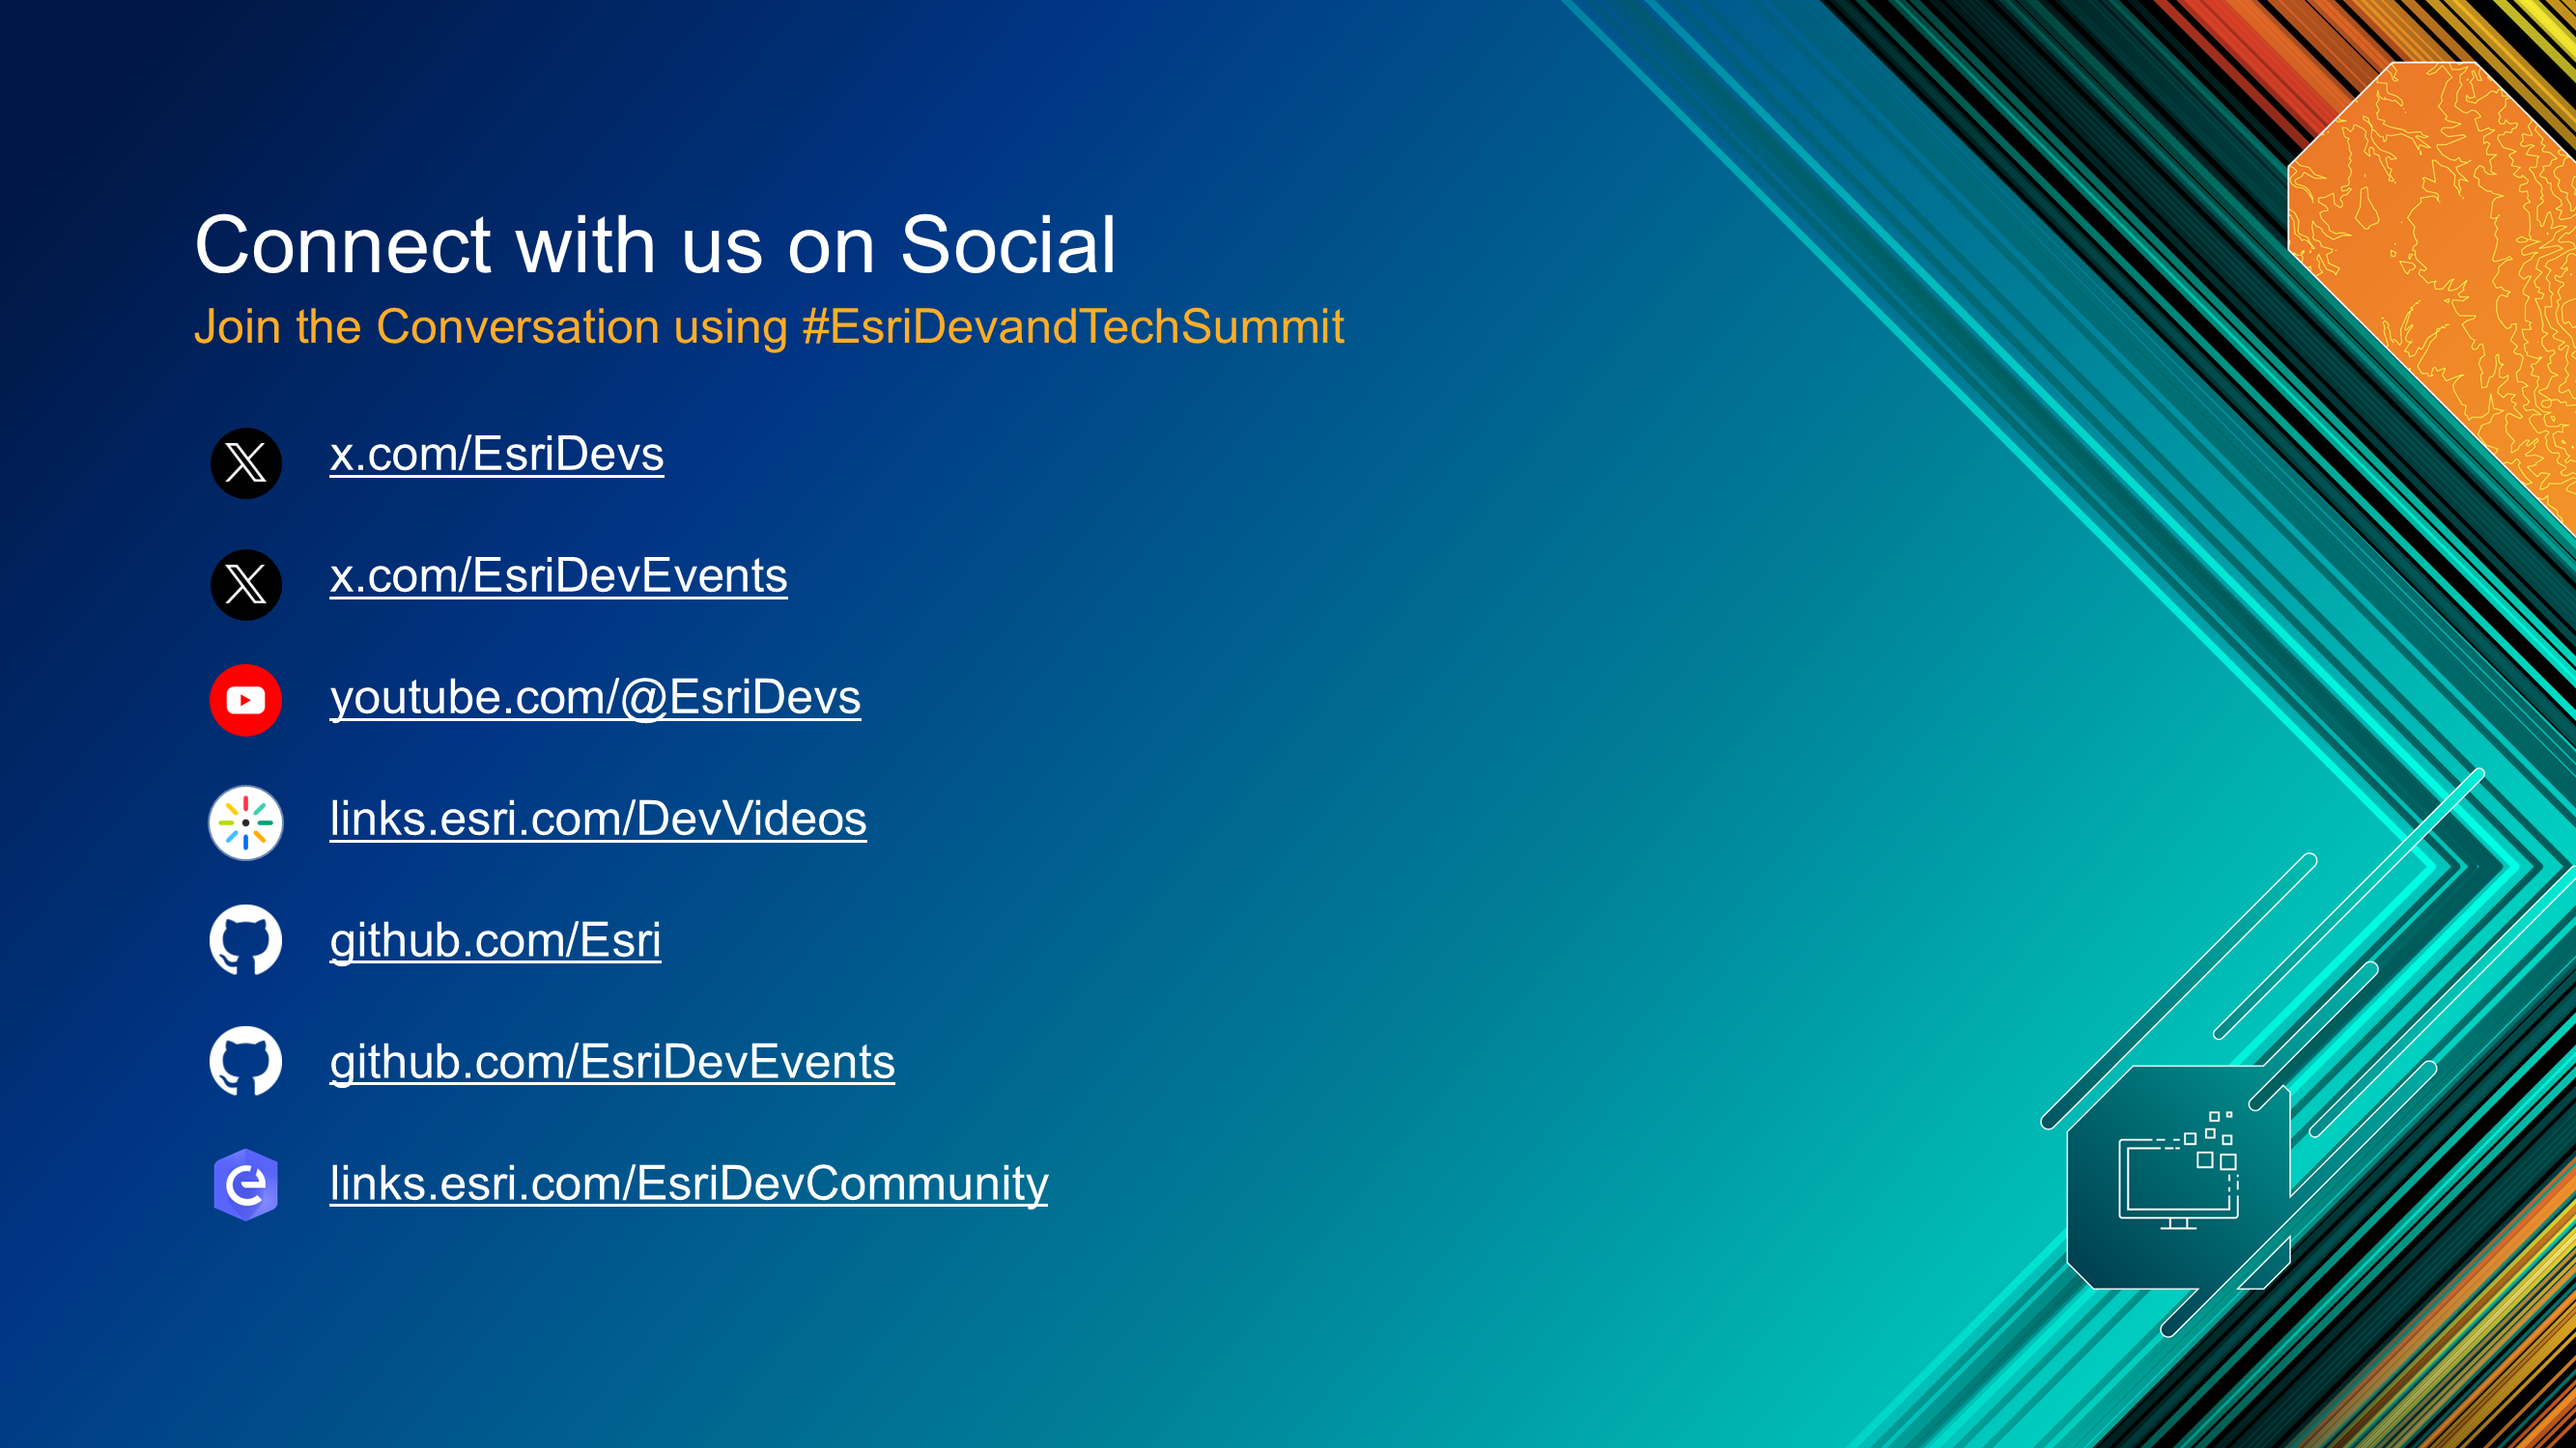
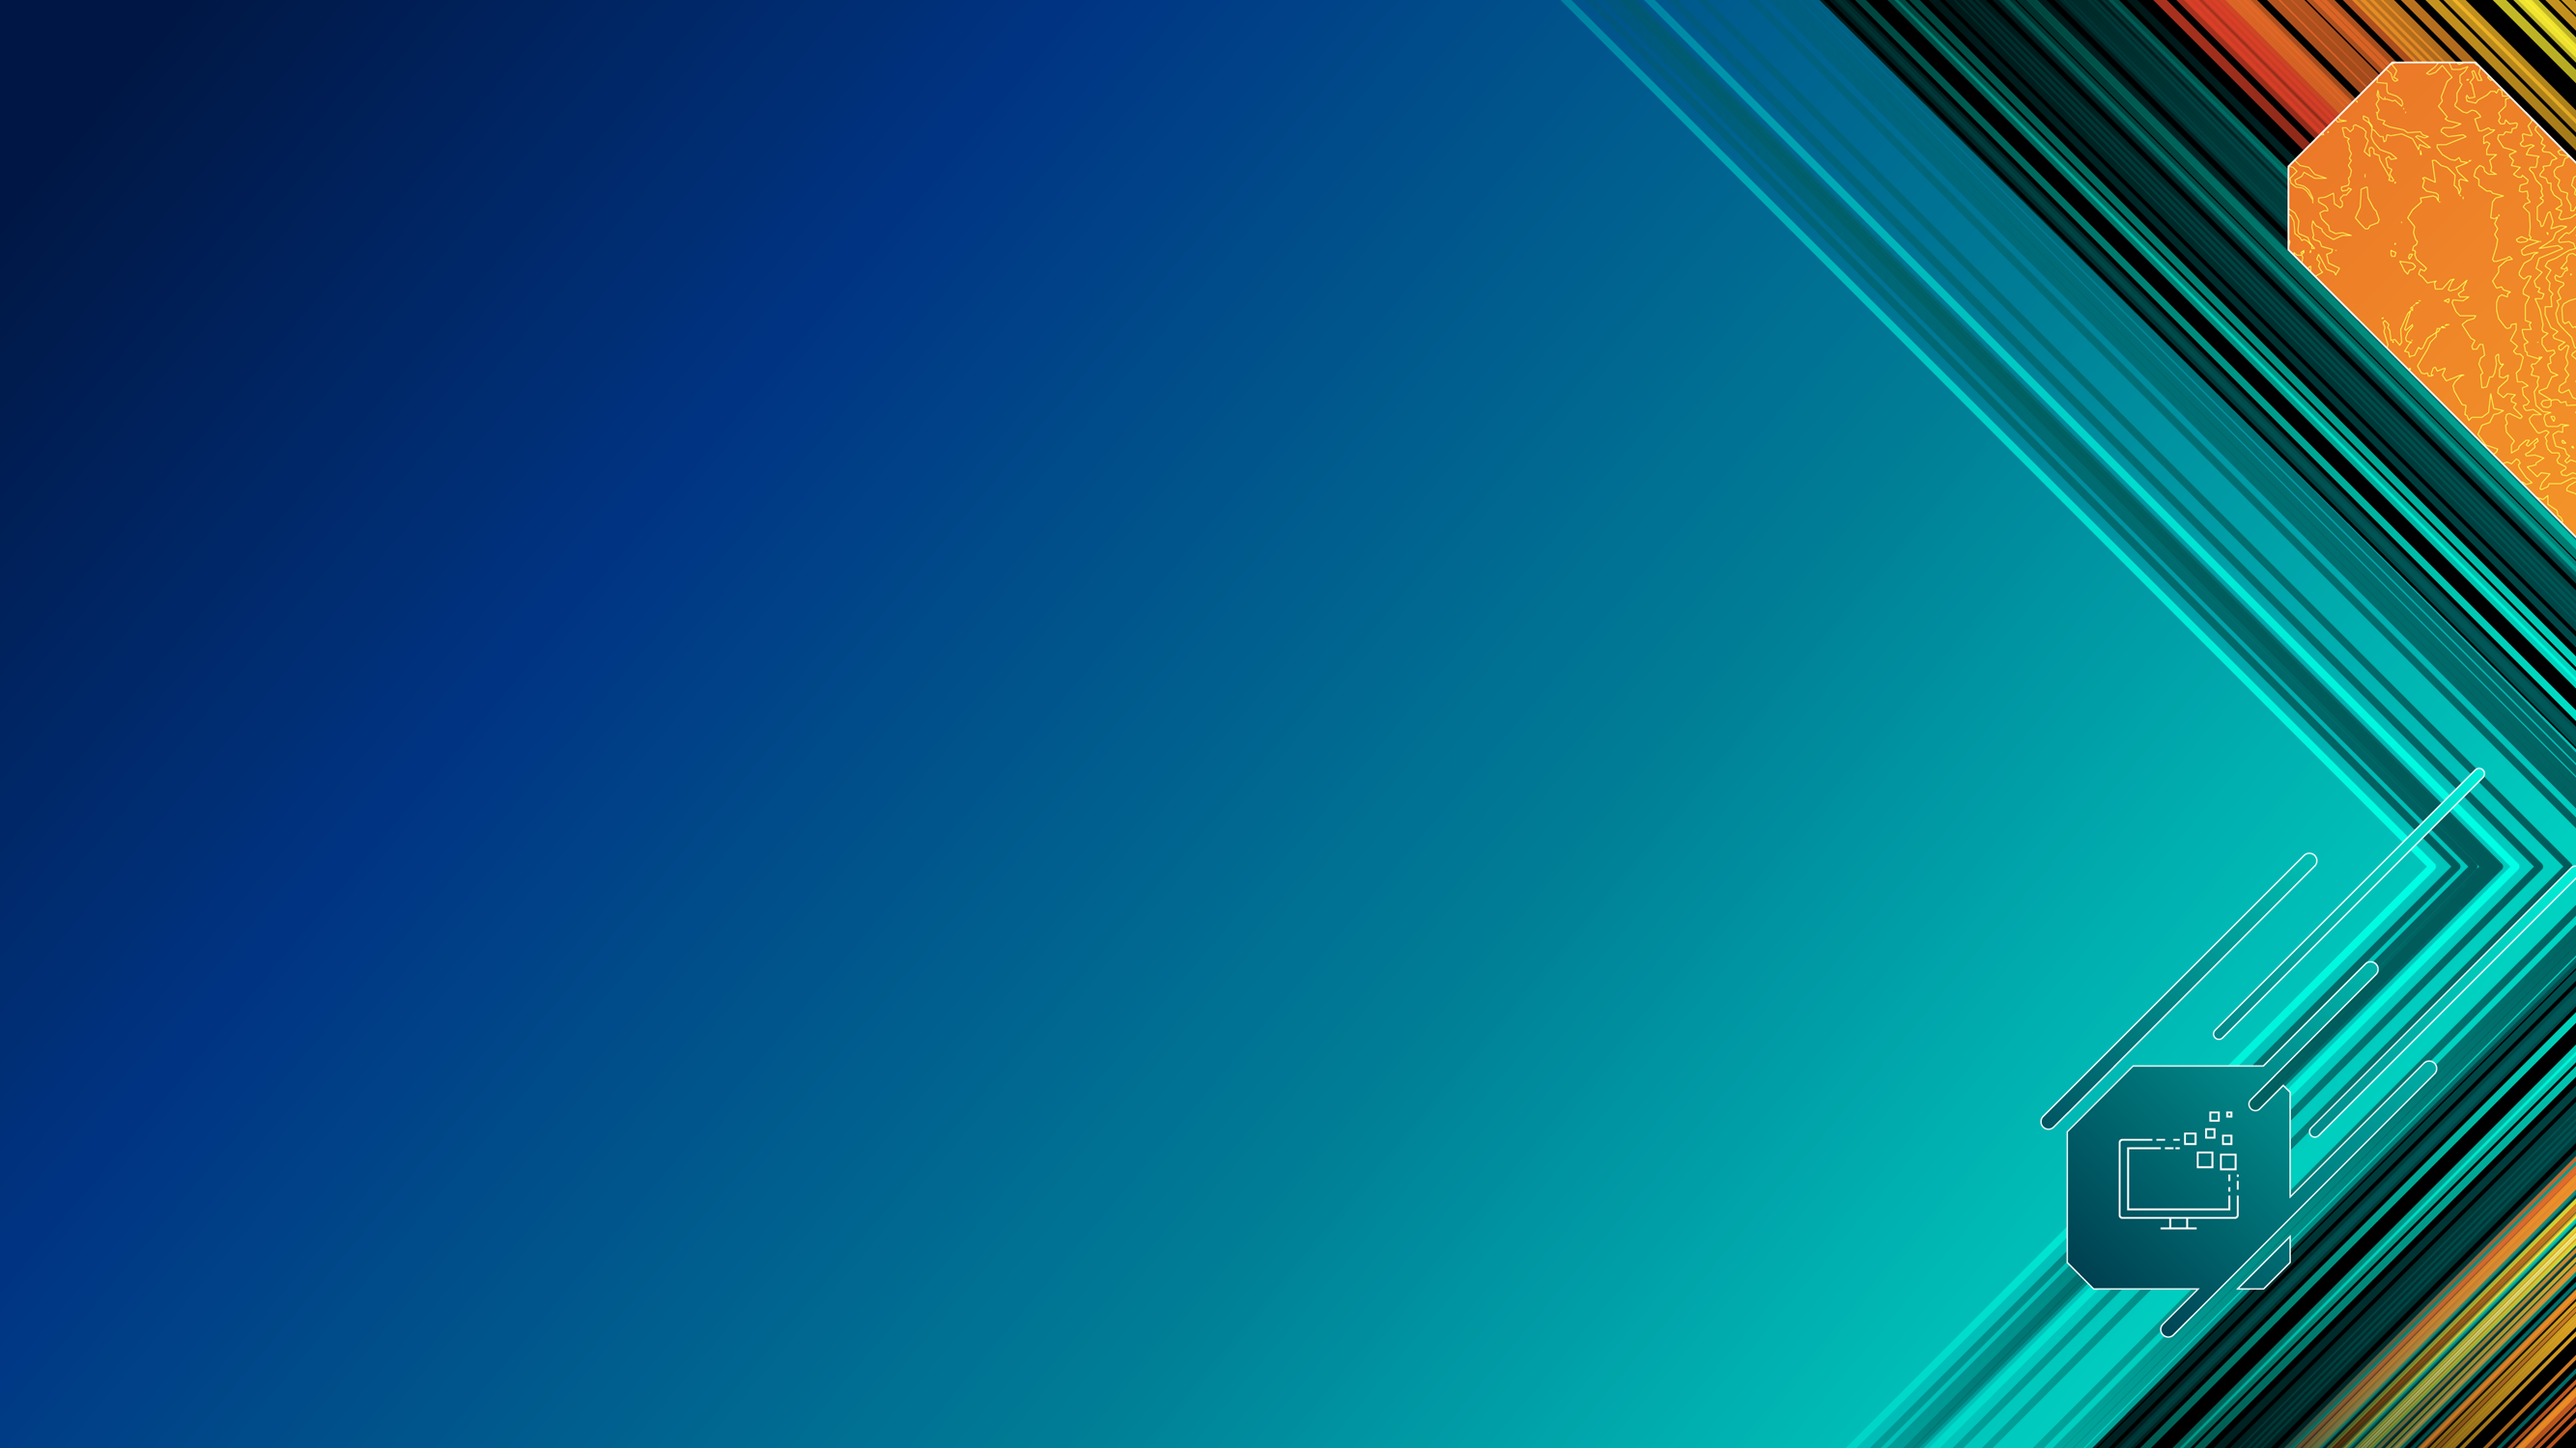
updated socials slide
from https://github.com/Esri/reveal.js/commit/3ee28d7ef435682d268b43973a36f20d4021ed15

diff --git a/slides/index.html b/slides/index.html
@@ -112,12 +112,106 @@
           data-background-size="contain"
         ></section>
 
-        <!-- SOCIALS SLIDE: -->
-        <section
-          data-markdown
-          data-background="img/2025/dev/7.png"
-          data-background-size="contain"
-        ></section>
+        <!-- SOCIAL CONNECT SLIDE: -->
+        <section data-background="img/2025/dev/7.png">
+          <h2 style="text-align: left">Connect With Us On Social</h2>
+          <p style="text-align: left; color: var(--r-section-subhead-color)">
+            Join the Conversation using #EsriDevTech2025
+          </p>
+          <ul
+            style="
+              text-align: left;
+              display: inline;
+              list-style-type: none;
+              line-height: 4rem;
+            "
+          >
+            <li>
+              <img
+                src="img/2025/dev/x.png"
+                style="height: 50px; vertical-align: middle; margin-right: 15px"
+              />
+              <a
+                href="https://x.com/EsriDevs"
+                style="color: white"
+                target="_new"
+                >x.com/EsriDevs</a
+              >
+            </li>
+            <li>
+              <img
+                src="img/2025/dev/x.png"
+                style="height: 50px; vertical-align: middle; margin-right: 15px"
+              />
+              <a
+                href="https://x.com/EsriDevEvents"
+                style="color: white"
+                target="_new"
+                >x.com/EsriDevEvents</a
+              >
+            </li>
+            <li>
+              <img
+                src="img/2025/dev/youtube.png"
+                style="height: 50px; vertical-align: middle; margin-right: 15px"
+              />
+              <a
+                href="http://www.youtube.com/@EsriDevs"
+                style="color: white"
+                target="_new"
+                >youtube.com/@EsriDevs</a
+              >
+            </li>
+            <li>
+              <img
+                src="img/2025/dev/video.png"
+                style="height: 50px; vertical-align: middle; margin-right: 15px"
+              />
+              <a
+                href="https://links.esri.com/DevVideos"
+                style="color: white"
+                target="_new"
+                >links.esri.com/DevVideos</a
+              >
+            </li>
+            <li>
+              <img
+                src="img/2025/dev/github.png"
+                style="height: 50px; vertical-align: middle; margin-right: 15px"
+              />
+              <a
+                href="https://github.com/Esri"
+                style="color: white"
+                target="_new"
+                >github.com/Esri</a
+              >
+            </li>
+            <li>
+              <img
+                src="img/2025/dev/github.png"
+                style="height: 50px; vertical-align: middle; margin-right: 15px"
+              />
+              <a
+                href="https://github.com/EsriDevEvents"
+                style="color: white"
+                target="_new"
+                >github.com/EsriDevEvents</a
+              >
+            </li>
+            <li>
+              <img
+                src="img/2025/dev/community.png"
+                style="height: 50px; vertical-align: middle; margin-right: 15px"
+              />
+              <a
+                href="https://links.esri.com/EsriDevCommunity"
+                style="color: white"
+                target="_new"
+                >links.esri.com/EsriDevCommunity</a
+              >
+            </li>
+          </ul>
+        </section>
 
         <!-- ESRI LOGO SLIDE: -->
         <section
